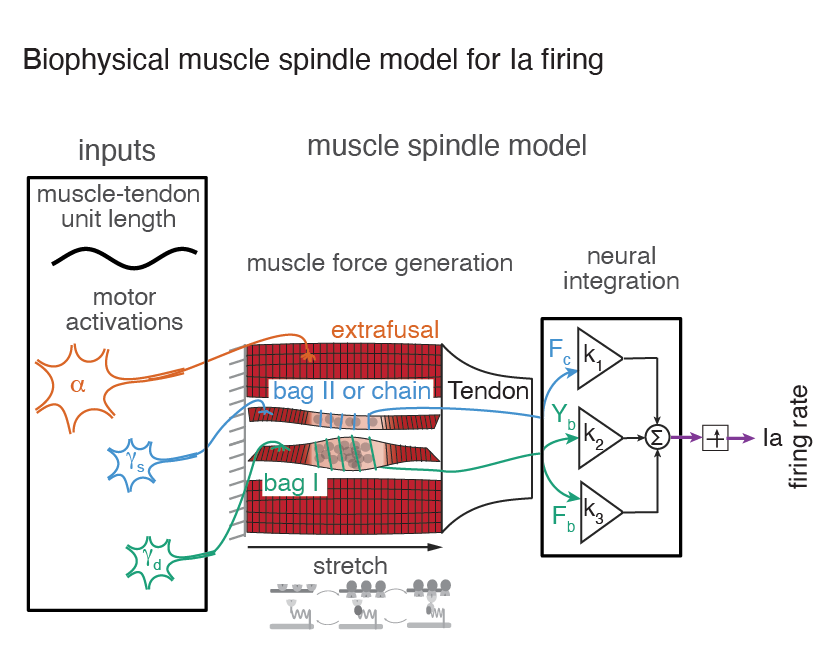
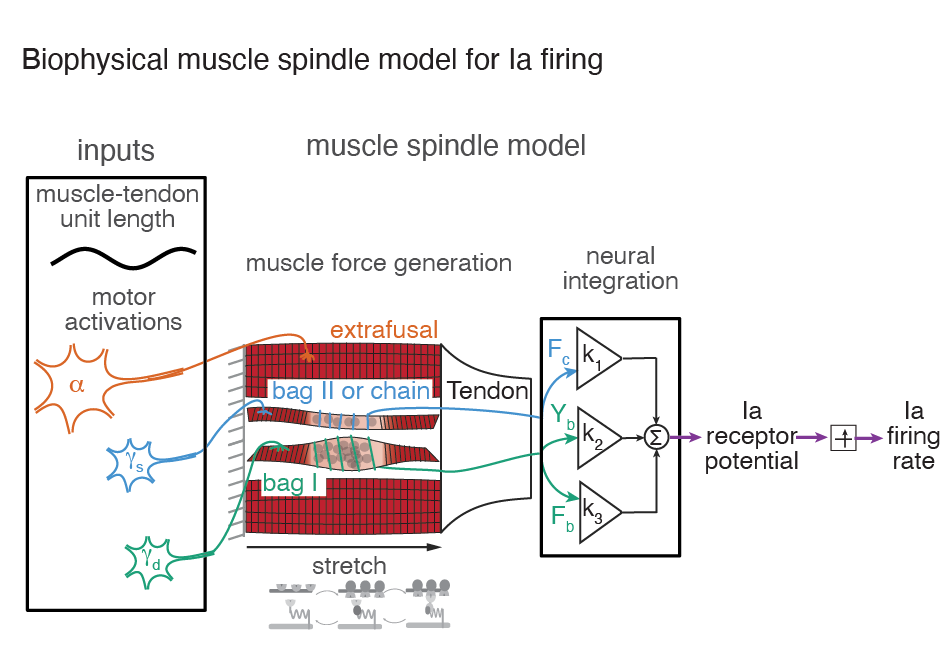
Update the schematic, and stop claiming spikes are not simulated
New Overview figure (from refs/spindleModelFig02.png), which adds the receptor
potential -> integrator -> Ia firing rate stage. Copied in under the existing
asset name so no code or build changes are needed and one filename always means
"the current figure"; refs/ is gitignored, so the source stays untracked.

The surrounding text needed fixing anyway. Three places still said the tutorial
"does not simulate" the conversion to firing:

  * app/SpindleLearnApp.m - the Overview box, i.e. text that ships INSIDE the
    compiled app. It also contradicted itself, since the next clause described
    the walkthrough showing what the spike generator does.
  * docs/01_overview.md - the same claim with no qualifier.
  * README - the docs table billed docs/04 as "why the app stops at the receptor
    potential".

d727b37 made the spike plot live on walkthrough step 4, precisely so the
250 spikes/s ceiling and the quantised steps are visible. All three now say the
conversion is a separate step that the walkthrough runs once, and where the time
step limits it. docs/04 already described this correctly.

Also scoped the Playground's "no firing panel" comment so a maintainer does not
restore a panel that was deliberately confined to one step.

diff --git a/app/SpindleLearnApp.m b/app/SpindleLearnApp.m
@@ -239,7 +239,9 @@ classdef SpindleLearnApp < SpindleAppBase
             obj.pgAxes.activation = obj.axInPanel(pg, 1, 2);
             obj.pgAxes.force      = obj.axInPanel(pg, 2, 1);
             obj.pgAxes.rp         = obj.axInPanel(pg, 2, 2);
-            % No firing panel: the RECEPTOR POTENTIAL is the model's output here.
+            % No firing panel HERE: the RECEPTOR POTENTIAL is the model's output.
+            % (The walkthrough's spike step does plot the generator - axFiring -
+            % but this is the only place it appears; see SpindleAppBase.axFiring.)
             % Turning r into spikes needs a spike generator, and the one the
             % toolbox ships is refractory-limited to 1/(4*dt) = 250 spikes/s at
             % dt = 1 ms, which any realistic gamma drive saturates. Rather than
@@ -769,9 +771,9 @@ classdef SpindleLearnApp < SpindleAppBase
 '<b>cross-bridges</b> generate force; that force (plus its rate of change, &ldquo;yank&rdquo;) is ', ...
 'transduced into the afferent&rsquo;s <b>receptor potential</b>.<br><br>', ...
 'In the animal that receptor potential is then converted into the Ia afferent&rsquo;s <b>firing rate</b>. ', ...
-'This tutorial stops at the receptor potential and does <b>not</b> simulate that conversion &mdash; the ', ...
-'<b>Guided walkthrough</b> shows what the toolbox spike generator does and explains why its output is not ', ...
-'the model&rsquo;s result.</div>', ...
+'What this model predicts is the receptor potential, not a firing rate. The <b>Guided walkthrough</b> ', ...
+'runs the toolbox spike generator on it once, so you can see what it does &mdash; and see that its ', ...
+'ceiling is set by the simulation time step rather than by the spindle.</div>', ...
 '<h2>The biophysical model</h2>', ...
 fig, ...
 '<h2>The pipeline (at a glance)</h2>', ...

diff --git a/README.md b/README.md
@@ -98,7 +98,7 @@ The written narrative mirrors the in-app text and is the place for the details:
 | [01_overview.md](docs/01_overview.md) | What the model is and the full pipeline |
 | [02_fibers_and_forces.md](docs/02_fibers_and_forces.md) | Bag and chain fibers, and where force comes from |
 | [03_crossbridge_distribution.md](docs/03_crossbridge_distribution.md) | The cross-bridge population and how it evolves |
-| [04_receptor_potential.md](docs/04_receptor_potential.md) | Force + yank → `r`, and **why the app stops at the receptor potential** |
+| [04_receptor_potential.md](docs/04_receptor_potential.md) | Force + yank → `r`, and **how `r` becomes spikes** |
 | [05_gamma_optimization.md](docs/05_gamma_optimization.md) | Recovering gamma drive, and **how the fits are scored** |
 | [06_your_data.md](docs/06_your_data.md) | Running the model on your own recordings |
 | [07_differences_from_manuscript.md](docs/07_differences_from_manuscript.md) | Every known difference from the published workflow, and what it costs |

diff --git a/docs/01_overview.md b/docs/01_overview.md
@@ -7,9 +7,10 @@ starting from the molecular cross-bridges inside the spindle's own tiny muscle
 fibers.
 
 The model's output is the Ia **receptor potential**. In the animal that receptor
-potential is converted into the afferent's **firing rate**; this tutorial stops
-at the receptor potential and does not simulate that conversion. See
-[4. The receptor potential](04_receptor_potential.md) for why.
+potential is converted into the afferent's **firing rate**; here that conversion
+is a separate modelling step. The guided walkthrough runs the toolbox spike
+generator once to show what it does, and where the time step limits it. See
+[4. The receptor potential](04_receptor_potential.md).
 
 ## The pipeline
 
